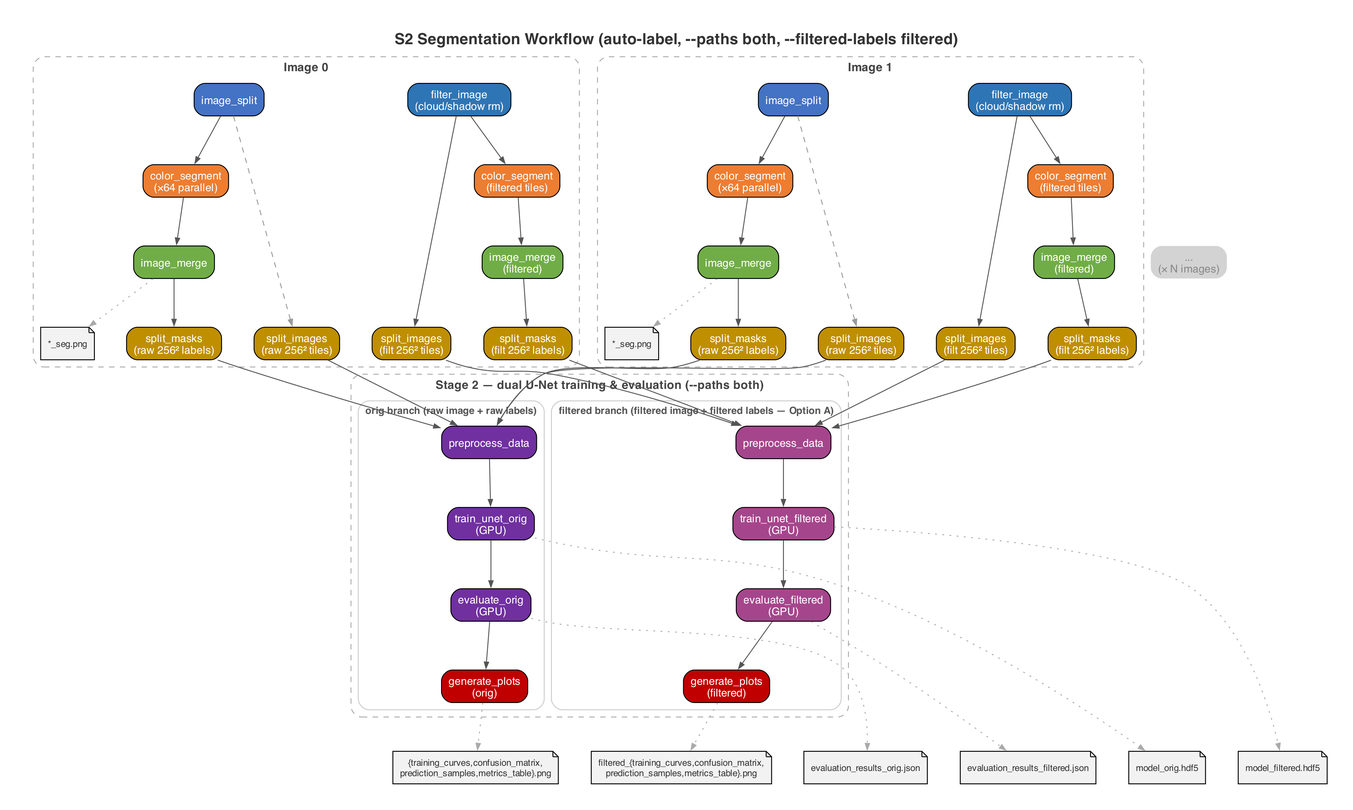
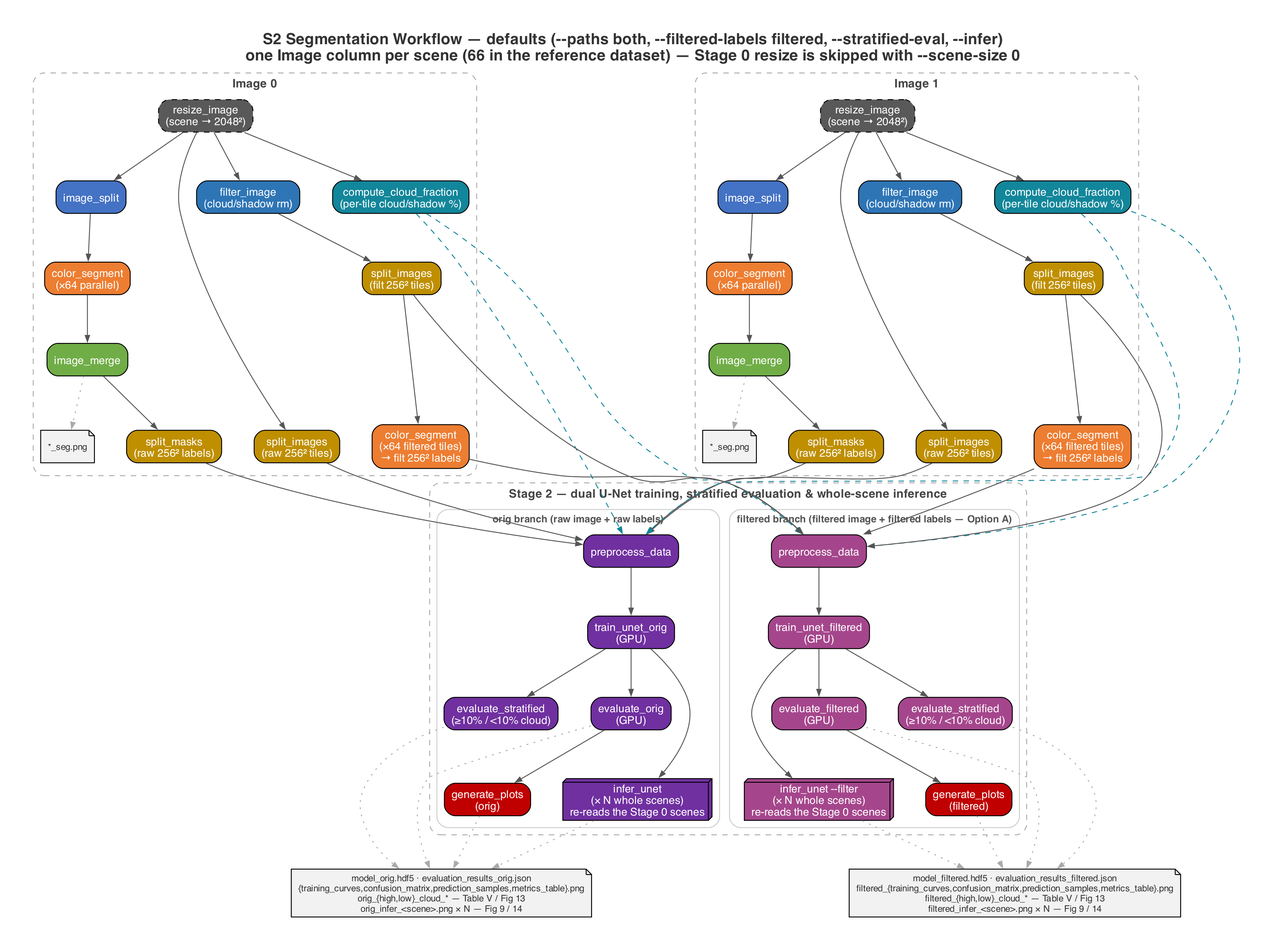
docs: correct the pipeline overview and regenerate the DAG figure
The README's job list and DAG figure both predated the stratified-evaluation
and inference work, and the figure carried a structural error besides.

Missing from the pipeline overview entirely: filter_image, compute_cloud_fraction,
evaluate_stratified and infer_unet. The filtered branch -- half of every default
run, and the source of the filtered-condition numbers -- was undocumented.

The figure drew the filtered branch as filter -> split -> color_segment ->
image_merge -> split_masks. There is no merge/re-split there: color_segment runs
on each already-256x256 filtered tile and emits that branch's label tiles
directly. It also drew split_images as fed by image_split when it is fed by the
scene. Both verified against the planned DAG of run0004 via pegasus-graphviz.

Stage 1 is now split by what each flag actually gates: image_split,
color_segment and image_merge always run; --no-auto-label removes only the tile
bridge (steps 4-8, including the whole filtered branch); compute_cloud_fraction
is independent of both and follows --stratified-eval.

diff --git a/generate_workflow_diagram.py b/generate_workflow_diagram.py
@@ -4,9 +4,19 @@
 
 Produces a compact, publication-ready DAG image that represents the
 workflow structure without expanding every parallel job. Reflects the
-current ``--paths both --filtered-labels filtered`` default: two U-Net
-branches (raw scene vs thin-cloud/shadow-filtered scene), each with its
-own auto-label tile chain.
+current defaults (``--scene-size 2048 --paths both --filtered-labels
+filtered --stratified-eval --infer``): a Stage 0 scene resize, two U-Net
+branches (raw scene vs thin-cloud/shadow-filtered scene) each with its
+own auto-label tile chain, per-scene cloud/shadow fractions feeding a
+stratified evaluation (Table V / Fig 13), and whole-scene inference
+(Fig 9 / 14).
+
+Cross-checked against the planned DAG of run0004
+(``pegasus-graphviz workflow.yml``), whose node set is: resize_image*,
+image_split, compute_cloud_fraction, color_segment, image_merge,
+filter_image, split_images, split_masks, preprocess_data, train_unet,
+evaluate_model, evaluate_stratified, generate_plots, infer_unet.
+(*run0004 itself passed ``--scene-size 0``, so it has no resize jobs.)
 """
 
 import argparse
@@ -18,11 +28,13 @@ def make_dot(n_images=2):
     """Build a Graphviz DOT string for the simplified workflow."""
 
     colors = {
+        'resize': '#595959',
         'split': '#4472C4',
         'segment': '#ED7D31',
         'merge': '#70AD47',
         'autolabel': '#BF8F00',
         'filter': '#2E75B6',
+        'cloudfrac': '#12869A',
         'stage2_orig': '#7030A0',
         'stage2_filt': '#A5468C',
         'plots': '#C00000',
@@ -50,7 +62,8 @@ def make_dot(n_images=2):
 
     # ── Title ──
     L('  labelloc=t;')
-    L('  label="S2 Segmentation Workflow (auto-label, --paths both, --filtered-labels filtered)";')
+    L('  label="S2 Segmentation Workflow — defaults (--paths both, --filtered-labels filtered, --stratified-eval, --infer)\\n'
+      'one Image column per scene (66 in the reference dataset) — Stage 0 resize is skipped with --scene-size 0";')
     L('  fontname="Helvetica-Bold"; fontsize=17; fontcolor="#333333";')
     L()
 
@@ -62,6 +75,9 @@ def make_dot(n_images=2):
         L(f'    style="dashed,rounded"; color="#AAAAAA";')
         L()
 
+        # Stage 0 — scene normalization (skipped with --scene-size 0)
+        L(f'    resize_{i}     [label="resize_image\\n(scene → 2048²)", fillcolor="{colors["resize"]}", fontcolor={fc}, style="rounded,filled,dashed"];')
+
         # Raw / orig chain
         L(f'    split_{i}      [label="image_split",                  fillcolor="{colors["split"]}",     fontcolor={fc}];')
         L(f'    seg_{i}        [label="color_segment\\n(×64 parallel)", fillcolor="{colors["segment"]}",  fontcolor={fc}];')
@@ -70,37 +86,37 @@ def make_dot(n_images=2):
         L(f'    split_img_{i}  [label="split_images\\n(raw 256² tiles)",  fillcolor="{colors["autolabel"]}", fontcolor={fc}];')
         L(f'    split_mask_{i} [label="split_masks\\n(raw 256² labels)",   fillcolor="{colors["autolabel"]}", fontcolor={fc}];')
 
-        # Filtered branch
+        # Cloud/shadow fraction — the Table V / Fig 13 stratification key
+        L(f'    cf_{i}         [label="compute_cloud_fraction\\n(per-tile cloud/shadow %)", fillcolor="{colors["cloudfrac"]}", fontcolor={fc}];')
+
+        # Filtered branch. Note there is no merge/re-split here: color_segment
+        # runs on each already-256² filtered tile, so it emits the filtered
+        # branch's label tiles directly (Option A, --filtered-labels filtered).
         L(f'    filt_{i}       [label="filter_image\\n(cloud/shadow rm)", fillcolor="{colors["filter"]}",    fontcolor={fc}];')
         L(f'    split_imgf_{i} [label="split_images\\n(filt 256² tiles)", fillcolor="{colors["autolabel"]}", fontcolor={fc}];')
-        L(f'    seg_filt_{i}   [label="color_segment\\n(filtered tiles)",  fillcolor="{colors["segment"]}",  fontcolor={fc}];')
-        L(f'    merge_filt_{i} [label="image_merge\\n(filtered)",          fillcolor="{colors["merge"]}",    fontcolor={fc}];')
-        L(f'    split_maskf_{i}[label="split_masks\\n(filt 256² labels)",  fillcolor="{colors["autolabel"]}", fontcolor={fc}];')
+        L(f'    seg_filt_{i}   [label="color_segment\\n(×64 filtered tiles)\\n→ filt 256² labels", fillcolor="{colors["segment"]}",  fontcolor={fc}];')
 
         L()
-        # orig edges
+        # stage 0 → everything that consumes the scene
+        L(f'    resize_{i} -> split_{i};')
+        L(f'    resize_{i} -> split_img_{i};')
+        L(f'    resize_{i} -> filt_{i};')
+        L(f'    resize_{i} -> cf_{i};')
+        # orig edges: tiles are colour-segmented, merged, then re-split as
+        # grayscale label tiles on the same grid as split_images.
         L(f'    split_{i} -> seg_{i};')
         L(f'    seg_{i} -> merge_{i};')
         L(f'    merge_{i} -> seg_out_{i} [style=dotted, color="#AAAAAA"];')
         L(f'    merge_{i} -> split_mask_{i};')
-        L(f'    split_{i} -> split_img_{i} [style=dashed, color="#999999"];')
         # filtered edges
         L(f'    filt_{i} -> split_imgf_{i};')
-        L(f'    filt_{i} -> seg_filt_{i};')
-        L(f'    seg_filt_{i} -> merge_filt_{i};')
-        L(f'    merge_filt_{i} -> split_maskf_{i};')
+        L(f'    split_imgf_{i} -> seg_filt_{i};')
         L(f'  }}')
-        L()
-
-    # ── Ellipsis ──
-    if n_images == 2:
-        L('  ellipsis [label="  ...  \\n(× N images)", shape=plaintext, fontsize=12, fontname="Helvetica", fontcolor="#888888"];')
-        L(f'  {{ rank=same; merge_0; ellipsis; merge_1; }}')
         L()
 
     # ── Stage 2: two branches ──
     L('  subgraph cluster_stage2 {')
-    L('    label="Stage 2 — dual U-Net training & evaluation (--paths both)"; labeljust=c;')
+    L('    label="Stage 2 — dual U-Net training, stratified evaluation & whole-scene inference"; labeljust=c;')
     L('    fontname="Helvetica-Bold"; fontsize=13; fontcolor="#444444";')
     L('    style="dashed,rounded"; color="#AAAAAA";')
     L()
@@ -112,8 +128,12 @@ def make_dot(n_images=2):
     L(f'      pre_o   [label="preprocess_data",       fillcolor="{colors["stage2_orig"]}", fontcolor={fc}];')
     L(f'      train_o [label="train_unet_orig\\n(GPU)",  fillcolor="{colors["stage2_orig"]}", fontcolor={fc}];')
     L(f'      eval_o  [label="evaluate_orig\\n(GPU)",    fillcolor="{colors["stage2_orig"]}", fontcolor={fc}];')
+    L(f'      strat_o [label="evaluate_stratified\\n(≥10% / <10% cloud)", fillcolor="{colors["stage2_orig"]}", fontcolor={fc}];')
+    L(f'      infer_o [label="infer_unet\\n(× N whole scenes)\\nre-reads the Stage 0 scenes", shape=box3d, style=filled, fillcolor="{colors["stage2_orig"]}", fontcolor={fc}];')
     L(f'      plots_o [label="generate_plots\\n(orig)",  fillcolor="{colors["plots"]}",       fontcolor={fc}];')
     L('      pre_o -> train_o -> eval_o -> plots_o;')
+    L('      train_o -> strat_o;')
+    L('      train_o -> infer_o;')
     L('    }')
     L()
 
@@ -124,8 +144,12 @@ def make_dot(n_images=2):
     L(f'      pre_f   [label="preprocess_data",            fillcolor="{colors["stage2_filt"]}", fontcolor={fc}];')
     L(f'      train_f [label="train_unet_filtered\\n(GPU)",  fillcolor="{colors["stage2_filt"]}", fontcolor={fc}];')
     L(f'      eval_f  [label="evaluate_filtered\\n(GPU)",    fillcolor="{colors["stage2_filt"]}", fontcolor={fc}];')
+    L(f'      strat_f [label="evaluate_stratified\\n(≥10% / <10% cloud)", fillcolor="{colors["stage2_filt"]}", fontcolor={fc}];')
+    L(f'      infer_f [label="infer_unet --filter\\n(× N whole scenes)\\nre-reads the Stage 0 scenes", shape=box3d, style=filled, fillcolor="{colors["stage2_filt"]}", fontcolor={fc}];')
     L(f'      plots_f [label="generate_plots\\n(filtered)",  fillcolor="{colors["plots"]}",       fontcolor={fc}];')
     L('      pre_f -> train_f -> eval_f -> plots_f;')
+    L('      train_f -> strat_f;')
+    L('      train_f -> infer_f;')
     L('    }')
     L('  }')
     L()
@@ -135,42 +159,54 @@ def make_dot(n_images=2):
         L(f'  split_img_{i}   -> pre_o;')
         L(f'  split_mask_{i}  -> pre_o;')
         L(f'  split_imgf_{i}  -> pre_f;')
-        L(f'  split_maskf_{i} -> pre_f;')
+        L(f'  seg_filt_{i}    -> pre_f;')
+        # cloud fractions ride along with preprocess and come out aligned
+        # with X_test, which is what evaluate_stratified splits on.
+        L(f'  cf_{i} -> pre_o [style=dashed, color="#12869A"];')
+        L(f'  cf_{i} -> pre_f [style=dashed, color="#12869A"];')
     L()
 
-    # ── Stage 2 outputs (suffixed) ──
+    # ── Stage 2 outputs (one note per branch, suffixed) ──
     L('  node [shape=note, style=filled, fillcolor="#F2F2F2", fontcolor="#333333", fontsize=10];')
-    L('  out_model_o [label="model_orig.hdf5"];')
-    L('  out_eval_o  [label="evaluation_results_orig.json"];')
-    L('  out_plot_o  [label="{training_curves,confusion_matrix,\\nprediction_samples,metrics_table}.png"];')
-    L('  out_model_f [label="model_filtered.hdf5"];')
-    L('  out_eval_f  [label="evaluation_results_filtered.json"];')
-    L('  out_plot_f  [label="filtered_{training_curves,confusion_matrix,\\nprediction_samples,metrics_table}.png"];')
+    L('  out_o [label="model_orig.hdf5 · evaluation_results_orig.json\\n'
+      '{training_curves,confusion_matrix,prediction_samples,metrics_table}.png\\n'
+      'orig_{high,low}_cloud_* — Table V / Fig 13\\n'
+      'orig_infer_&lt;scene&gt;.png × N — Fig 9 / 14"];')
+    L('  out_f [label="model_filtered.hdf5 · evaluation_results_filtered.json\\n'
+      'filtered_{training_curves,confusion_matrix,prediction_samples,metrics_table}.png\\n'
+      'filtered_{high,low}_cloud_* — Table V / Fig 13\\n'
+      'filtered_infer_&lt;scene&gt;.png × N — Fig 9 / 14"];')
     L()
-    L('  train_o -> out_model_o [style=dotted, color="#AAAAAA"];')
-    L('  eval_o  -> out_eval_o  [style=dotted, color="#AAAAAA"];')
-    L('  plots_o -> out_plot_o  [style=dotted, color="#AAAAAA"];')
-    L('  train_f -> out_model_f [style=dotted, color="#AAAAAA"];')
-    L('  eval_f  -> out_eval_f  [style=dotted, color="#AAAAAA"];')
-    L('  plots_f -> out_plot_f  [style=dotted, color="#AAAAAA"];')
+    L('  eval_o  -> out_o [style=dotted, color="#AAAAAA"];')
+    L('  strat_o -> out_o [style=dotted, color="#AAAAAA"];')
+    L('  infer_o -> out_o [style=dotted, color="#AAAAAA"];')
+    L('  plots_o -> out_o [style=dotted, color="#AAAAAA"];')
+    L('  eval_f  -> out_f [style=dotted, color="#AAAAAA"];')
+    L('  strat_f -> out_f [style=dotted, color="#AAAAAA"];')
+    L('  infer_f -> out_f [style=dotted, color="#AAAAAA"];')
+    L('  plots_f -> out_f [style=dotted, color="#AAAAAA"];')
     L()
 
     # ── Rank hints ──
+    resizes = " ".join(f"resize_{i};" for i in range(n_images))
     splits = " ".join(f"split_{i};" for i in range(n_images))
     filts = " ".join(f"filt_{i};" for i in range(n_images))
+    cfs = " ".join(f"cf_{i};" for i in range(n_images))
     segs = " ".join(f"seg_{i};" for i in range(n_images))
     merges = " ".join(f"merge_{i};" for i in range(n_images))
-    L(f'  {{ rank=same; {splits} {filts} }}')
-    L(f'  {{ rank=same; {segs} }}')
+    imgfs = " ".join(f"split_imgf_{i};" for i in range(n_images))
+    L(f'  {{ rank=same; {resizes} }}')
+    L(f'  {{ rank=same; {splits} {filts} {cfs} }}')
+    L(f'  {{ rank=same; {segs} {imgfs} }}')
     L(f'  {{ rank=same; {merges} }}')
 
-    auto_nodes = " ".join(f"split_img_{i}; split_mask_{i}; split_imgf_{i}; split_maskf_{i};" for i in range(n_images))
+    auto_nodes = " ".join(f"split_img_{i}; split_mask_{i}; seg_filt_{i};" for i in range(n_images))
     L(f'  {{ rank=same; {auto_nodes} }}')
     L('  { rank=same; pre_o; pre_f; }')
     L('  { rank=same; train_o; train_f; }')
-    L('  { rank=same; eval_o; eval_f; }')
-    L('  { rank=same; plots_o; plots_f; }')
-    L('  { rank=same; out_model_o; out_eval_o; out_plot_o; out_model_f; out_eval_f; out_plot_f; }')
+    L('  { rank=same; eval_o; strat_o; eval_f; strat_f; }')
+    L('  { rank=same; plots_o; infer_o; plots_f; infer_f; }')
+    L('  { rank=same; out_o; out_f; }')
 
     L('}')
     return '\n'.join(lines)

diff --git a/README.md b/README.md
@@ -4,69 +4,108 @@ A [Pegasus WMS](https://pegasus.isi.edu/) workflow for **Sentinel-2 satellite se
 
 ## Pipeline Overview
 
-The workflow combines two stages into an end-to-end DAG. **The defaults reproduce the
-reference paper's configuration exactly** — running with no optional flags is the canonical
-paper reproduction (see [Reproducing the Paper](#reproducing-the-paper)).
+The workflow is a single end-to-end DAG in three stages. Stage 1 builds two parallel sets of
+training tiles — one from the raw scenes (`orig`) and one from thin-cloud/shadow-filtered
+scenes (`filtered`) — and Stage 2 trains, evaluates and runs inference for each. **The
+defaults reproduce the reference paper's configuration exactly** — running with no optional
+flags is the canonical paper reproduction (see [Reproducing the Paper](#reproducing-the-paper)).
 
 **Stage 0 — Scene normalization**
 
 0. **resize_image** — Resizes every input scene to 2048×2048 (the paper's scene geometry; 2048 divides evenly by 256, so no edge padding ever enters the labels). One job per scene. Disable with `--scene-size 0` to keep the native size (edge tiles are then padded — masks with the open-water value, so padding cannot become a phantom label class).
 
-**Stage 1 — Color Segmentation (Label Generation)**
+**Stage 1 — Color segmentation and auto-labeling**
 
-1. **image_split** — Splits each 2048×2048 scene into 64 tiles of 256×256. One job per source image, all run concurrently.
+One job set per scene; all scenes run concurrently.
+
+*Color segmentation — always runs*
+
+1. **image_split** — Splits each 2048×2048 scene into 64 tiles of 256×256. One job per source image.
 2. **color_segment** — HSV-based color segmentation on each tile (thin-ice/thick-ice/water classification, paper Fig 6). One job per tile — N×64 embarrassingly parallel HTCondor jobs.
 3. **image_merge** — Reassembles 64 segmented tiles back into a full 2048×2048 mask. One merge per source image (fan-in).
 
-**Auto-label Bridge (default; disable with `--no-auto-label`)**
+*Auto-label tile bridge — steps 4–8, on by default, all skipped with `--no-auto-label`*
 
-3b. **split_images** — Splits each 2048×2048 scene into 256×256 grayscale training image tiles. Reuses `image_split` with `--grayscale --pad`. One job per source image.
-3c. **split_masks** — Splits each 2048×2048 merged segmentation mask into 256×256 grayscale mask tiles (same grid as split_images). One job per source image. Together with split_images, these produce matched image/mask tile pairs for Stage 2.
+Turns the segmentation into matched 256×256 U-Net training pairs. With `--no-auto-label`
+none of steps 4–8 are emitted at all — including the entire filtered branch — and Stage 2
+reads pre-existing tiles from `--train-images-dir` / `--train-masks-dir` instead. Pass
+`--no-auto-label` with neither of those directories and the DAG stops after step 3:
+color segmentation only, one merged mask per scene.
 
-**Stage 2 — U-Net Training & Evaluation (optional)**
+4. **split_masks** — Splits the merged mask from step 3 into 256×256 grayscale label tiles. Reuses `image_split` with `--grayscale --pad --pad-value 149` (the open-water gray, so padding cannot become a phantom 4th class).
+5. **split_images** — Splits the *scene* — not the segmented tiles of step 1 — into matching 256×256 grayscale U-Net input tiles. Together with `split_masks` this gives Stage 2 matched image/label pairs for the `orig` branch.
+6. **filter_image** — Starts the `filtered` branch (`--paths both|filtered`; `both` is the default): `only_shadow_cloud_removal` over the whole 2048×2048 scene (paper §III-A, `medianBlur` kernel 155). With `--filter-scale tile` it instead runs once per 256×256 tile, and the kernel auto-shrinks to 19.
+7. **split_images (filtered)** — Tiles the cleaned scene into 256×256 U-Net inputs (`train_imgf_*`).
+8. **color_segment (filtered)** — Color-segments each already-256×256 filtered tile, so it emits the filtered branch's **label** tiles directly — there is no second merge/re-split on this side. This is Option A (`--filtered-labels filtered`, the default): input and target are self-consistent. With `--filtered-labels raw` the branch reuses the `orig` labels from step 4 instead (the honest cross-comparison, ~90%).
 
-4. **preprocess_data** — Loads 256×256 grayscale training images and masks (from auto-label tiles or `--train-images-dir`/`--train-masks-dir`), encodes labels, normalizes (L2, float32), performs 80/20 train/test split. Processes each split separately for memory efficiency. Outputs `.npy` arrays.
-5. **train_unet** — Trains a 6-level U-Net (16→512 filters, 3-class softmax, categorical crossentropy, Adam optimizer). Supports single-GPU, multi-GPU (MirroredStrategy), and multi-node (Horovod) training modes.
-6. **evaluate_model** — Evaluates the trained model on the test set. Outputs loss, accuracy, F1, precision, and recall.
-7. **generate_plots** — Produces publication figures and tables: training curves, confusion matrix (Fig 13), prediction samples (Fig 14), metrics table (Table IV), and per-class metrics JSON.
+*Stratification input — independent of the bridge (`--stratified-eval`, on by default)*
+
+9. **compute_cloud_fraction** — Per-tile cloud/shadow fraction for each scene, read off the same Otsu mask `only_shadow_cloud_removal` computes internally, so "cloud/shadow" means exactly what the filter means by it. One job per scene, emitted whether or not auto-labeling is on; the JSONs ride through `preprocess_data` aligned with `X_test` and drive Table V / Fig 13.
+
+**Stage 2 — U-Net training, evaluation & inference (once per branch)**
+
+10. **preprocess_data** — Loads 256×256 grayscale training images and masks (from auto-label tiles or `--train-images-dir`/`--train-masks-dir`), encodes labels, normalizes (L2, float32), performs an 80/20 train/test split. Processes each split separately for memory efficiency. Outputs `.npy` arrays, plus `test_cloud_fractions.npy` when stratified evaluation is on.
+11. **train_unet** — Trains a 6-level U-Net (16→512 filters, 3-class softmax, categorical crossentropy, Adam optimizer). Supports single-GPU, multi-GPU (MirroredStrategy), and multi-node (Horovod) training modes.
+12. **evaluate_model** — Evaluates the trained model on the full test set. Outputs loss, accuracy, F1, precision, and recall (paper Table IV).
+13. **evaluate_stratified** — Splits the test set at `--cloud-threshold` (default `0.10`) into ≥10% and <10% cloud/shadow strata and evaluates each: confusion matrices, metrics tables, per-class JSON and a `stratified_summary.json` (paper Table V, Fig 13). Disable with `--no-stratified-eval`.
+14. **generate_plots** — Produces publication figures and tables: training curves, confusion matrix (Fig 13), prediction samples (Fig 14), metrics table (Table IV), and per-class metrics JSON.
+15. **infer_unet** — Applies the freshly trained model to whole scenes: tile, classify, merge back into one per-scene sea-ice map (paper Fig 9 / 14). One job per (branch, scene); filtered-branch jobs re-apply `only_shadow_cloud_removal` first so the model sees the distribution it was trained on. Disable with `--no-infer`; choose scenes with `--infer-images`.
 
 ```
-  Image 0                    Image 1                    Image N-1
-  ────────                   ────────                   ─────────
-  image_split_0              image_split_1      ...     image_split_N-1
-  ┌──┬──┬─...─┐              ┌──┬──┬─...─┐              ┌──┬──┬─...─┐
-  seg seg seg seg            seg seg seg seg            seg seg seg seg
-  (0) (1)(2) (63)            (0) (1)(2) (63)            (0) (1)(2) (63)
-  └──┴──┴─...─┘              └──┴──┴─...─┘              └──┴──┴─...─┘
-       │                          │                          │
-  image_merge_0              image_merge_1             image_merge_N-1
-       │                          │                          │
-  [split_masks_0]           [split_masks_1]           [split_masks_N-1]
-  (256x256 mask tiles)      (256x256 mask tiles)      (256x256 mask tiles)
-       │                          │                          │
-  [split_images_0]          [split_images_1]          [split_images_N-1]
-  (256x256 img tiles)       (256x256 img tiles)       (256x256 img tiles)
-       │                          │                          │
-       └──────────────────────────┴──────────────────────────┘
-                              │
-                    (auto-label default: matched image + mask tiles)
-                              │
-                              ▼
-                       preprocess_data
-                              │
-                              ▼
-                         train_unet
-                              │
-                              ▼
-                       evaluate_model
-                              │
-                              ▼
-                       generate_plots
+  ─── Stage 0 + 1 — one job set per scene i, all N scenes concurrent ──────────
+
+                               resize_image_i
+            ┌───────────────┬────────┴───────┬────────────────┐
+            ▼               ▼                ▼                ▼
+      image_split_i   split_images_i   filter_image_i   compute_cloud_
+      ┌──┬──┬─...─┐   (raw 256² imgs)        │           fraction_i
+      seg seg ... seg                        ▼                 │
+      (0)(1)    (63)                  split_images_i           │
+      └──┴──┴─...─┘                   (filt 256² imgs)         │
+            │                                │                 │
+            ▼                                ▼                 │
+      image_merge_i                   color_segment ×64        │
+      (2048² mask)                    (per filtered tile)      │
+            │                                │                 │
+            ▼                                ▼                 │
+      split_masks_i                   filt 256² labels         │
+      (raw 256² labels)                      │                 │
+            │                                │                 │
+  ──────────┴────────────────────────────────┴─────────────────┴─────────────
+       raw imgs + raw labels          filt imgs + filt labels   cloud % → both
+            │                                │
+            ▼                                ▼
+
+  ─── Stage 2 — both branches from one submission ────────────────────────────
+
+       orig branch                          filtered branch
+            │                                      │
+      preprocess_data                        preprocess_data
+            │                                      │
+      train_unet_orig                        train_unet_filtered
+       ┌────┴────┬──────────┐                 ┌────┴────┬──────────┐
+       ▼         ▼          ▼                 ▼         ▼          ▼
+  evaluate_  evaluate_   infer_unet      evaluate_  evaluate_   infer_unet
+  model      stratified  (× N scenes)    model      stratified  --filter
+       │     (Table V,   (Fig 9/14)           │     (Table V,   (× N scenes)
+       ▼      Fig 13)                         ▼      Fig 13)
+  generate_plots                         generate_plots
+  (Fig 13/14, Table IV)                  (Fig 13/14, Table IV)
 ```
 
 ![Workflow DAG](images/workflow.png)
 
-> **Note**: The `split_images_*` and `split_masks_*` jobs (shown in brackets) are part of the default auto-label mode. They produce matched training image/mask tile pairs directly from the source scenes. With `--no-auto-label`, Stage 2 reads pre-existing files from `--train-images-dir` and `--train-masks-dir`.
+> **Note**: `resize_image` is skipped with `--scene-size 0` (use it when the scenes are
+> already 2048×2048, as the authors' are). Color segmentation — `image_split`,
+> `color_segment`, `image_merge` — always runs; it is the tile bridge below it (steps 4–8,
+> the whole `orig` and `filtered` training-pair chain) that `--no-auto-label` removes, and
+> Stage 2 then reads tiles from `--train-images-dir` / `--train-masks-dir`. The filtered
+> column alone disappears with `--paths orig`, and `compute_cloud_fraction` /
+> `evaluate_stratified` with `--no-stratified-eval`.
+>
+> The figure above is generated by `generate_workflow_diagram.py` and was last checked on
+> 2026-09-21 against the planned DAG of run0004 (`pegasus-graphviz workflow.yml`). Re-run it
+> after adding or removing a job type.
 
 ## Project Structure
 
